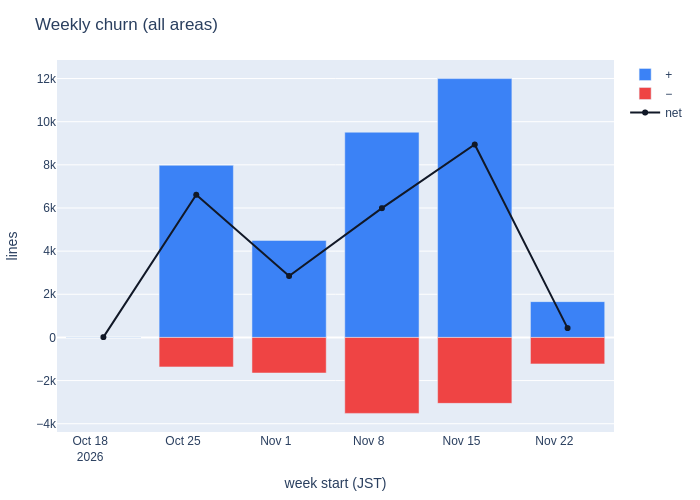
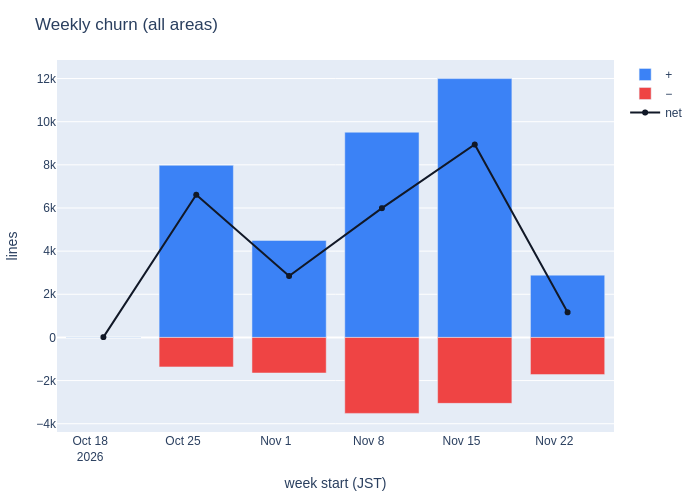
Render source churn.

diff --git a/churn/charts/churn-summary.html b/churn/charts/churn-summary.html
@@ -9,7 +9,7 @@
   <body style="margin:0;font-family:system-ui,sans-serif;">
   <div id="churn-summary" style="width:100%;min-height:90vh;"></div>
   <script>
-  const data = [{"type":"bar","name":"+30d","orientation":"h","y":["DistSSHBase / ssh/","DistSSHBase / hosts/","DistSSHBase / (root files)","DistSSHBase / messages/","DistSSHBase / procs/","DistSSHBase / DistSSHBase.jl","DistSSHBase / argv/","DistSSHHeartbeat / (root files)","DistSSHHeartbeat / DistSSHHeartbeat.jl","DistSSHRun / infra/","DistSSHRun / (root files)","DistSSHRun / core/drive/","DistSSHRun / argv/","DistSSHRun / core/setup/","DistSSHRun / drive/","DistSSHRun / cli/","DistSSHRun / options/","DistSSHRun / messages/","DistSSHRun / DistSSHRun.jl","DistSSHRun / core/","DistSSHShip / (root files)","DistSSHShip / DistSSHShip.jl","DistSSHUp / (root files)"],"marker":{"color":"#3b82f6"},"hovertemplate":"%{y}\u003cbr>+30d: %{x} lines\u003cextra>\u003c/extra>","x":[1587,1095,349,193,250,88,1,247,30,11750,3996,2992,2132,2599,1833,1118,1314,775,383,214,2568,88,59]},{"type":"bar","name":"−30d","orientation":"h","customdata":[402,218,14,67,0,34,1,24,2,2518,1967,1329,1002,529,1043,699,132,156,231,28,340,26,61],"y":["DistSSHBase / ssh/","DistSSHBase / hosts/","DistSSHBase / (root files)","DistSSHBase / messages/","DistSSHBase / procs/","DistSSHBase / DistSSHBase.jl","DistSSHBase / argv/","DistSSHHeartbeat / (root files)","DistSSHHeartbeat / DistSSHHeartbeat.jl","DistSSHRun / infra/","DistSSHRun / (root files)","DistSSHRun / core/drive/","DistSSHRun / argv/","DistSSHRun / core/setup/","DistSSHRun / drive/","DistSSHRun / cli/","DistSSHRun / options/","DistSSHRun / messages/","DistSSHRun / DistSSHRun.jl","DistSSHRun / core/","DistSSHShip / (root files)","DistSSHShip / DistSSHShip.jl","DistSSHUp / (root files)"],"marker":{"color":"#ef4444"},"hovertemplate":"%{y}\u003cbr>−30d: %{customdata} lines\u003cextra>\u003c/extra>","x":[-402,-218,-14,-67,0,-34,-1,-24,-2,-2518,-1967,-1329,-1002,-529,-1043,-699,-132,-156,-231,-28,-340,-26,-61]},{"type":"scatter","name":"net","y":["DistSSHBase / ssh/","DistSSHBase / hosts/","DistSSHBase / (root files)","DistSSHBase / messages/","DistSSHBase / procs/","DistSSHBase / DistSSHBase.jl","DistSSHBase / argv/","DistSSHHeartbeat / (root files)","DistSSHHeartbeat / DistSSHHeartbeat.jl","DistSSHRun / infra/","DistSSHRun / (root files)","DistSSHRun / core/drive/","DistSSHRun / argv/","DistSSHRun / core/setup/","DistSSHRun / drive/","DistSSHRun / cli/","DistSSHRun / options/","DistSSHRun / messages/","DistSSHRun / DistSSHRun.jl","DistSSHRun / core/","DistSSHShip / (root files)","DistSSHShip / DistSSHShip.jl","DistSSHUp / (root files)"],"marker":{"line":{"width":1,"color":"#ffffff"},"size":8,"symbol":"diamond","color":"#111827"},"mode":"markers","hovertemplate":"%{y}\u003cbr>net: %{x} lines\u003cextra>\u003c/extra>","x":[1185,877,335,126,250,54,0,223,28,9232,2029,1663,1130,2070,790,419,1182,619,152,186,2228,62,-2]}];
+  const data = [{"type":"bar","name":"+30d","orientation":"h","y":["DistSSHBase / ssh/","DistSSHBase / hosts/","DistSSHBase / (root files)","DistSSHBase / procs/","DistSSHBase / messages/","DistSSHBase / DistSSHBase.jl","DistSSHBase / argv/","DistSSHHeartbeat / (root files)","DistSSHHeartbeat / DistSSHHeartbeat.jl","DistSSHRun / infra/","DistSSHRun / (root files)","DistSSHRun / core/drive/","DistSSHRun / core/setup/","DistSSHRun / argv/","DistSSHRun / drive/","DistSSHRun / cli/","DistSSHRun / options/","DistSSHRun / messages/","DistSSHRun / DistSSHRun.jl","DistSSHRun / core/","DistSSHShip / (root files)","DistSSHShip / DistSSHShip.jl","DistSSHUp / (root files)"],"marker":{"color":"#3b82f6"},"hovertemplate":"%{y}\u003cbr>+30d: %{x} lines\u003cextra>\u003c/extra>","x":[1588,1106,426,299,193,92,1,248,30,12323,4023,3011,2892,2138,1882,1146,1314,843,401,214,2572,89,59]},{"type":"bar","name":"−30d","orientation":"h","customdata":[403,223,14,5,67,34,1,25,2,2556,1980,1355,633,1007,1086,727,132,368,231,28,356,26,61],"y":["DistSSHBase / ssh/","DistSSHBase / hosts/","DistSSHBase / (root files)","DistSSHBase / procs/","DistSSHBase / messages/","DistSSHBase / DistSSHBase.jl","DistSSHBase / argv/","DistSSHHeartbeat / (root files)","DistSSHHeartbeat / DistSSHHeartbeat.jl","DistSSHRun / infra/","DistSSHRun / (root files)","DistSSHRun / core/drive/","DistSSHRun / core/setup/","DistSSHRun / argv/","DistSSHRun / drive/","DistSSHRun / cli/","DistSSHRun / options/","DistSSHRun / messages/","DistSSHRun / DistSSHRun.jl","DistSSHRun / core/","DistSSHShip / (root files)","DistSSHShip / DistSSHShip.jl","DistSSHUp / (root files)"],"marker":{"color":"#ef4444"},"hovertemplate":"%{y}\u003cbr>−30d: %{customdata} lines\u003cextra>\u003c/extra>","x":[-403,-223,-14,-5,-67,-34,-1,-25,-2,-2556,-1980,-1355,-633,-1007,-1086,-727,-132,-368,-231,-28,-356,-26,-61]},{"type":"scatter","name":"net","y":["DistSSHBase / ssh/","DistSSHBase / hosts/","DistSSHBase / (root files)","DistSSHBase / procs/","DistSSHBase / messages/","DistSSHBase / DistSSHBase.jl","DistSSHBase / argv/","DistSSHHeartbeat / (root files)","DistSSHHeartbeat / DistSSHHeartbeat.jl","DistSSHRun / infra/","DistSSHRun / (root files)","DistSSHRun / core/drive/","DistSSHRun / core/setup/","DistSSHRun / argv/","DistSSHRun / drive/","DistSSHRun / cli/","DistSSHRun / options/","DistSSHRun / messages/","DistSSHRun / DistSSHRun.jl","DistSSHRun / core/","DistSSHShip / (root files)","DistSSHShip / DistSSHShip.jl","DistSSHUp / (root files)"],"marker":{"line":{"width":1,"color":"#ffffff"},"size":8,"symbol":"diamond","color":"#111827"},"mode":"markers","hovertemplate":"%{y}\u003cbr>net: %{x} lines\u003cextra>\u003c/extra>","x":[1185,883,412,294,126,58,0,223,28,9767,2043,1656,2259,1131,796,419,1182,475,170,186,2216,63,-2]}];
   const layout = {"barmode":"overlay","height":414,"margin":{"l":220},"title":{"text":"30-day churn by area"},"xaxis":{"title":"lines"},"yaxis":{"autorange":"reversed"}};
 const config = {responsive: true, displayModeBar: true};
 Plotly.newPlot("churn-summary", data, layout, config);

diff --git a/churn/charts/churn-heatmap.html b/churn/charts/churn-heatmap.html
@@ -9,7 +9,7 @@
   <body style="margin:0;font-family:system-ui,sans-serif;">
   <div id="churn-heatmap" style="width:100%;min-height:90vh;"></div>
   <script>
-  const data = [{"type":"heatmap","colorscale":"RdBu","y":["DistSSHBase / ssh/","DistSSHBase / hosts/","DistSSHBase / (root files)","DistSSHBase / messages/","DistSSHBase / procs/","DistSSHBase / DistSSHBase.jl","DistSSHBase / argv/","DistSSHHeartbeat / (root files)","DistSSHHeartbeat / DistSSHHeartbeat.jl","DistSSHRun / infra/","DistSSHRun / (root files)","DistSSHRun / core/drive/","DistSSHRun / argv/","DistSSHRun / core/setup/","DistSSHRun / drive/","DistSSHRun / cli/","DistSSHRun / options/","DistSSHRun / messages/","DistSSHRun / DistSSHRun.jl","DistSSHRun / core/","DistSSHShip / (root files)","DistSSHShip / DistSSHShip.jl","DistSSHUp / (root files)"],"zmid":0,"z":[[0.0,434.0,-2.0,235.0,508.0,10.0],[0.0,41.0,416.0,8.0,412.0,0.0],[0.0,0.0,0.0,5.0,224.0,106.0],[0.0,0.0,60.0,1.0,65.0,0.0],[0.0,0.0,0.0,0.0,250.0,0.0],[0.0,0.0,5.0,15.0,29.0,5.0],[0.0,0.0,0.0,0.0,0.0,0.0],[0.0,0.0,0.0,217.0,0.0,6.0],[0.0,0.0,0.0,28.0,0.0,0.0],[0.0,2737.0,803.0,2457.0,3202.0,33.0],[0.0,549.0,828.0,243.0,368.0,41.0],[0.0,966.0,100.0,31.0,550.0,16.0],[0.0,183.0,154.0,292.0,484.0,17.0],[0.0,781.0,525.0,234.0,528.0,2.0],[0.0,557.0,-92.0,27.0,296.0,2.0],[0.0,222.0,-31.0,89.0,139.0,0.0],[0.0,0.0,-9.0,140.0,869.0,182.0],[0.0,54.0,107.0,34.0,421.0,3.0],[14.0,86.0,-13.0,20.0,36.0,9.0],[0.0,0.0,0.0,0.0,185.0,1.0],[0.0,0.0,0.0,1862.0,366.0,0.0],[0.0,0.0,0.0,53.0,9.0,0.0],[0.0,2.0,-4.0,0.0,0.0,0.0]],"hovertemplate":"%{y}\u003cbr>week %{x}\u003cbr>net: %{z}\u003cextra>\u003c/extra>","x":["2026-10-19","2026-10-26","2026-11-02","2026-11-09","2026-11-16","2026-11-23"]}];
+  const data = [{"type":"heatmap","colorscale":"RdBu","y":["DistSSHBase / ssh/","DistSSHBase / hosts/","DistSSHBase / (root files)","DistSSHBase / procs/","DistSSHBase / messages/","DistSSHBase / DistSSHBase.jl","DistSSHBase / argv/","DistSSHHeartbeat / (root files)","DistSSHHeartbeat / DistSSHHeartbeat.jl","DistSSHRun / infra/","DistSSHRun / (root files)","DistSSHRun / core/drive/","DistSSHRun / core/setup/","DistSSHRun / argv/","DistSSHRun / drive/","DistSSHRun / cli/","DistSSHRun / options/","DistSSHRun / messages/","DistSSHRun / DistSSHRun.jl","DistSSHRun / core/","DistSSHShip / (root files)","DistSSHShip / DistSSHShip.jl","DistSSHUp / (root files)"],"zmid":0,"z":[[0.0,434.0,-2.0,235.0,508.0,10.0],[0.0,41.0,416.0,8.0,412.0,6.0],[0.0,0.0,0.0,5.0,224.0,183.0],[0.0,0.0,0.0,0.0,250.0,44.0],[0.0,0.0,60.0,1.0,65.0,0.0],[0.0,0.0,5.0,15.0,29.0,9.0],[0.0,0.0,0.0,0.0,0.0,0.0],[0.0,0.0,0.0,217.0,0.0,6.0],[0.0,0.0,0.0,28.0,0.0,0.0],[0.0,2737.0,803.0,2457.0,3202.0,568.0],[0.0,549.0,828.0,243.0,368.0,55.0],[0.0,966.0,100.0,31.0,550.0,9.0],[0.0,781.0,525.0,234.0,528.0,191.0],[0.0,183.0,154.0,292.0,484.0,18.0],[0.0,557.0,-92.0,27.0,296.0,8.0],[0.0,222.0,-31.0,89.0,139.0,0.0],[0.0,0.0,-9.0,140.0,869.0,182.0],[0.0,54.0,107.0,34.0,421.0,-141.0],[14.0,86.0,-13.0,20.0,36.0,27.0],[0.0,0.0,0.0,0.0,185.0,1.0],[0.0,0.0,0.0,1862.0,366.0,-12.0],[0.0,0.0,0.0,53.0,9.0,1.0],[0.0,2.0,-4.0,0.0,0.0,0.0]],"hovertemplate":"%{y}\u003cbr>week %{x}\u003cbr>net: %{z}\u003cextra>\u003c/extra>","x":["2026-10-19","2026-10-26","2026-11-02","2026-11-09","2026-11-16","2026-11-23"]}];
   const layout = {"height":368,"margin":{"l":220},"title":{"text":"Weekly net churn heatmap"}};
 const config = {responsive: true, displayModeBar: true};
 Plotly.newPlot("churn-heatmap", data, layout, config);

diff --git a/churn/charts/churn-weekly.html b/churn/charts/churn-weekly.html
@@ -9,7 +9,7 @@
   <body style="margin:0;font-family:system-ui,sans-serif;">
   <div id="churn-weekly" style="width:100%;min-height:90vh;"></div>
   <script>
-  const data = [{"type":"bar","name":"+","y":[19,7978,4496,9512,11997,1659],"marker":{"color":"#3b82f6"},"hovertemplate":"week %{x}\u003cbr>added: %{y}\u003cextra>\u003c/extra>","x":["2026-10-19","2026-10-26","2026-11-02","2026-11-09","2026-11-16","2026-11-23"]},{"type":"bar","name":"−","customdata":[5,1366,1649,3521,3056,1226],"y":[-5,-1366,-1649,-3521,-3056,-1226],"marker":{"color":"#ef4444"},"hovertemplate":"week %{x}\u003cbr>removed: %{customdata}\u003cextra>\u003c/extra>","x":["2026-10-19","2026-10-26","2026-11-02","2026-11-09","2026-11-16","2026-11-23"]},{"line":{"color":"#111827"},"type":"scatter","name":"net","y":[14,6612,2847,5991,8941,433],"mode":"markers+lines","hovertemplate":"week %{x}\u003cbr>net: %{y}\u003cextra>\u003c/extra>","x":["2026-10-19","2026-10-26","2026-11-02","2026-11-09","2026-11-16","2026-11-23"]}];
+  const data = [{"type":"bar","name":"+","y":[19,7978,4496,9512,11997,2888],"marker":{"color":"#3b82f6"},"hovertemplate":"week %{x}\u003cbr>added: %{y}\u003cextra>\u003c/extra>","x":["2026-10-19","2026-10-26","2026-11-02","2026-11-09","2026-11-16","2026-11-23"]},{"type":"bar","name":"−","customdata":[5,1366,1649,3521,3056,1723],"y":[-5,-1366,-1649,-3521,-3056,-1723],"marker":{"color":"#ef4444"},"hovertemplate":"week %{x}\u003cbr>removed: %{customdata}\u003cextra>\u003c/extra>","x":["2026-10-19","2026-10-26","2026-11-02","2026-11-09","2026-11-16","2026-11-23"]},{"line":{"color":"#111827"},"type":"scatter","name":"net","y":[14,6612,2847,5991,8941,1165],"mode":"markers+lines","hovertemplate":"week %{x}\u003cbr>net: %{y}\u003cextra>\u003c/extra>","x":["2026-10-19","2026-10-26","2026-11-02","2026-11-09","2026-11-16","2026-11-23"]}];
   const layout = {"barmode":"relative","height":420,"title":{"text":"Weekly churn (all areas)"},"xaxis":{"title":"week start (JST)"},"yaxis":{"title":"lines"}};
 const config = {responsive: true, displayModeBar: true};
 Plotly.newPlot("churn-weekly", data, layout, config);

diff --git a/churn/report.md b/churn/report.md
@@ -1,7 +1,7 @@
 ## Source churn
 
 Lines are non-blank `*.jl` under `src/` and `lib/*/src/`, grouped by package and area.
-Columns use git history through `c6a030d` as of 2026-11-23 (JST).
+Columns use git history through `dce65d1` as of 2026-11-24 (JST).
 Areas list only directories that hold at least one `*.jl` directly and show any 7d or 30d added/deleted lines.
 
 **(root files)** lists `.jl` files sitting directly in a package `src/` directory, not in a subfolder.
@@ -17,20 +17,20 @@ Interactive charts (hover for values): [summary](charts/churn-summary.html) · [
 ### DistSSHBase
 | area | files | LOC | +7d | −7d | net7 | +30d | −30d | net30 | %≥30d old | last touch |
 | --- | ---: | ---: | ---: | ---: | ---: | ---: | ---: | ---: | ---: | --- |
-| ssh/ | 9 | 2269 | 718 | 200 | 518 | 1587 | 402 | 1185 | 43.3 | 2026-11-23 |
-| hosts/ | 6 | 1091 | 561 | 149 | 412 | 1095 | 218 | 877 | 18.9 | 2026-11-23 |
-| (root files) | 6 | 383 | 336 | 6 | 330 | 349 | 14 | 335 | 18.4 | 2026-11-23 |
-| messages/ | 4 | 403 | 80 | 15 | 65 | 193 | 67 | 126 | 61.7 | 2026-11-22 |
-| procs/ | 2 | 233 | 250 | 0 | 250 | 250 | 0 | 250 | 0.0 | 2026-11-21 |
-| DistSSHBase.jl | 1 | 87 | 40 | 6 | 34 | 88 | 34 | 54 | 24.5 | 2026-11-23 |
+| ssh/ | 9 | 2269 | 626 | 170 | 456 | 1588 | 403 | 1185 | 43.3 | 2026-11-24 |
+| hosts/ | 6 | 1097 | 225 | 70 | 155 | 1106 | 223 | 883 | 18.9 | 2026-11-24 |
+| (root files) | 7 | 453 | 324 | 6 | 318 | 426 | 14 | 412 | 15.6 | 2026-11-24 |
+| procs/ | 3 | 275 | 299 | 5 | 294 | 299 | 5 | 294 | 0.0 | 2026-11-24 |
+| messages/ | 4 | 403 | 34 | 5 | 29 | 193 | 67 | 126 | 61.9 | 2026-11-22 |
+| DistSSHBase.jl | 1 | 91 | 28 | 3 | 25 | 92 | 34 | 58 | 23.5 | 2026-11-24 |
 | argv/ | 1 | 31 | 0 | 0 | 0 | 1 | 1 | 0 | 97.4 | 2026-11-08 |
 
-*(root files)*: component_id.jl, component_src.jl, env.jl, namespace.jl, record_writer.jl, tool_require.jl.
+*(root files)*: cli.jl, component_id.jl, component_src.jl, env.jl, namespace.jl, record_writer.jl, tool_require.jl.
 
 ### DistSSHHeartbeat
 | area | files | LOC | +7d | −7d | net7 | +30d | −30d | net30 | %≥30d old | last touch |
 | --- | ---: | ---: | ---: | ---: | ---: | ---: | ---: | ---: | ---: | --- |
-| (root files) | 5 | 204 | 15 | 9 | 6 | 247 | 24 | 223 | 0.0 | 2026-11-23 |
+| (root files) | 5 | 204 | 16 | 10 | 6 | 248 | 25 | 223 | 0.0 | 2026-11-24 |
 | DistSSHHeartbeat.jl | 1 | 22 | 0 | 0 | 0 | 30 | 2 | 28 | 0.0 | 2026-11-13 |
 
 *(root files)*: config.jl, deliver.jl, monitor.jl, worker.jl, worker_source.jl.
@@ -38,25 +38,25 @@ Interactive charts (hover for values): [summary](charts/churn-summary.html) · [
 ### DistSSHRun
 | area | files | LOC | +7d | −7d | net7 | +30d | −30d | net30 | %≥30d old | last touch |
 | --- | ---: | ---: | ---: | ---: | ---: | ---: | ---: | ---: | ---: | --- |
-| infra/ | 25 | 9971 | 4066 | 831 | 3235 | 11750 | 2518 | 9232 | 11.5 | 2026-11-23 |
-| (root files) | 11 | 5541 | 1382 | 973 | 409 | 3996 | 1967 | 2029 | 49.4 | 2026-11-23 |
-| core/drive/ | 12 | 3457 | 987 | 421 | 566 | 2992 | 1329 | 1663 | 39.9 | 2026-11-23 |
-| argv/ | 8 | 2524 | 956 | 455 | 501 | 2132 | 1002 | 1130 | 40.1 | 2026-11-23 |
-| core/setup/ | 10 | 4170 | 650 | 120 | 530 | 2599 | 529 | 2070 | 46.2 | 2026-11-23 |
-| drive/ | 7 | 2154 | 777 | 479 | 298 | 1833 | 1043 | 790 | 44.5 | 2026-11-23 |
-| cli/ | 15 | 1157 | 438 | 299 | 139 | 1118 | 699 | 419 | 43.0 | 2026-11-23 |
-| options/ | 9 | 1206 | 1153 | 102 | 1051 | 1314 | 132 | 1182 | 6.3 | 2026-11-23 |
-| messages/ | 3 | 2766 | 465 | 41 | 424 | 775 | 156 | 619 | 77.3 | 2026-11-23 |
-| DistSSHRun.jl | 1 | 542 | 129 | 84 | 45 | 383 | 231 | 152 | 53.6 | 2026-11-23 |
-| core/ | 1 | 172 | 214 | 28 | 186 | 214 | 28 | 186 | 0.0 | 2026-11-23 |
+| infra/ | 26 | 10482 | 2534 | 691 | 1843 | 12323 | 2556 | 9767 | 10.9 | 2026-11-24 |
+| (root files) | 11 | 5555 | 805 | 698 | 107 | 4023 | 1980 | 2043 | 49.1 | 2026-11-24 |
+| core/drive/ | 12 | 3450 | 665 | 339 | 326 | 3011 | 1355 | 1656 | 39.9 | 2026-11-24 |
+| core/setup/ | 10 | 4358 | 591 | 185 | 406 | 2892 | 633 | 2259 | 43.2 | 2026-11-24 |
+| argv/ | 8 | 2525 | 286 | 137 | 149 | 2138 | 1007 | 1131 | 40.0 | 2026-11-24 |
+| drive/ | 7 | 2160 | 587 | 333 | 254 | 1882 | 1086 | 796 | 44.3 | 2026-11-23 |
+| cli/ | 15 | 1157 | 69 | 53 | 16 | 1146 | 727 | 419 | 41.6 | 2026-11-24 |
+| options/ | 9 | 1206 | 400 | 84 | 316 | 1314 | 132 | 1182 | 6.3 | 2026-11-23 |
+| messages/ | 3 | 2632 | 162 | 228 | -66 | 843 | 368 | 475 | 74.4 | 2026-11-24 |
+| DistSSHRun.jl | 1 | 560 | 91 | 70 | 21 | 401 | 231 | 170 | 54.5 | 2026-11-24 |
+| core/ | 1 | 172 | 48 | 28 | 20 | 214 | 28 | 186 | 0.0 | 2026-11-23 |
 
 *(root files)*: DistSSHRun/drive.jl, DistSSHRun/execute.jl, DistSSHRun/execute_envelope.jl, DistSSHRun/go.jl, DistSSHRun/heartbeat_module.jl, DistSSHRun/hostinfo.jl, DistSSHRun/pool.jl, DistSSHRun/provenance.jl, DistSSHRun/setup.jl, DistSSHRun/ship_module.jl, DistSSHRun/up_module.jl.
 
 ### DistSSHShip
 | area | files | LOC | +7d | −7d | net7 | +30d | −30d | net30 | %≥30d old | last touch |
 | --- | ---: | ---: | ---: | ---: | ---: | ---: | ---: | ---: | ---: | --- |
-| (root files) | 8 | 2085 | 430 | 64 | 366 | 2568 | 340 | 2228 | 0.0 | 2026-11-22 |
-| DistSSHShip.jl | 1 | 55 | 9 | 0 | 9 | 88 | 26 | 62 | 0.0 | 2026-11-18 |
+| (root files) | 8 | 2075 | 228 | 51 | 177 | 2572 | 356 | 2216 | 0.0 | 2026-11-24 |
+| DistSSHShip.jl | 1 | 56 | 4 | 0 | 4 | 89 | 26 | 63 | 0.0 | 2026-11-24 |
 
 *(root files)*: contain.jl, deps.jl, pack.jl, project.jl, record.jl, select.jl, ship.jl, tree_manifest.jl.
 
